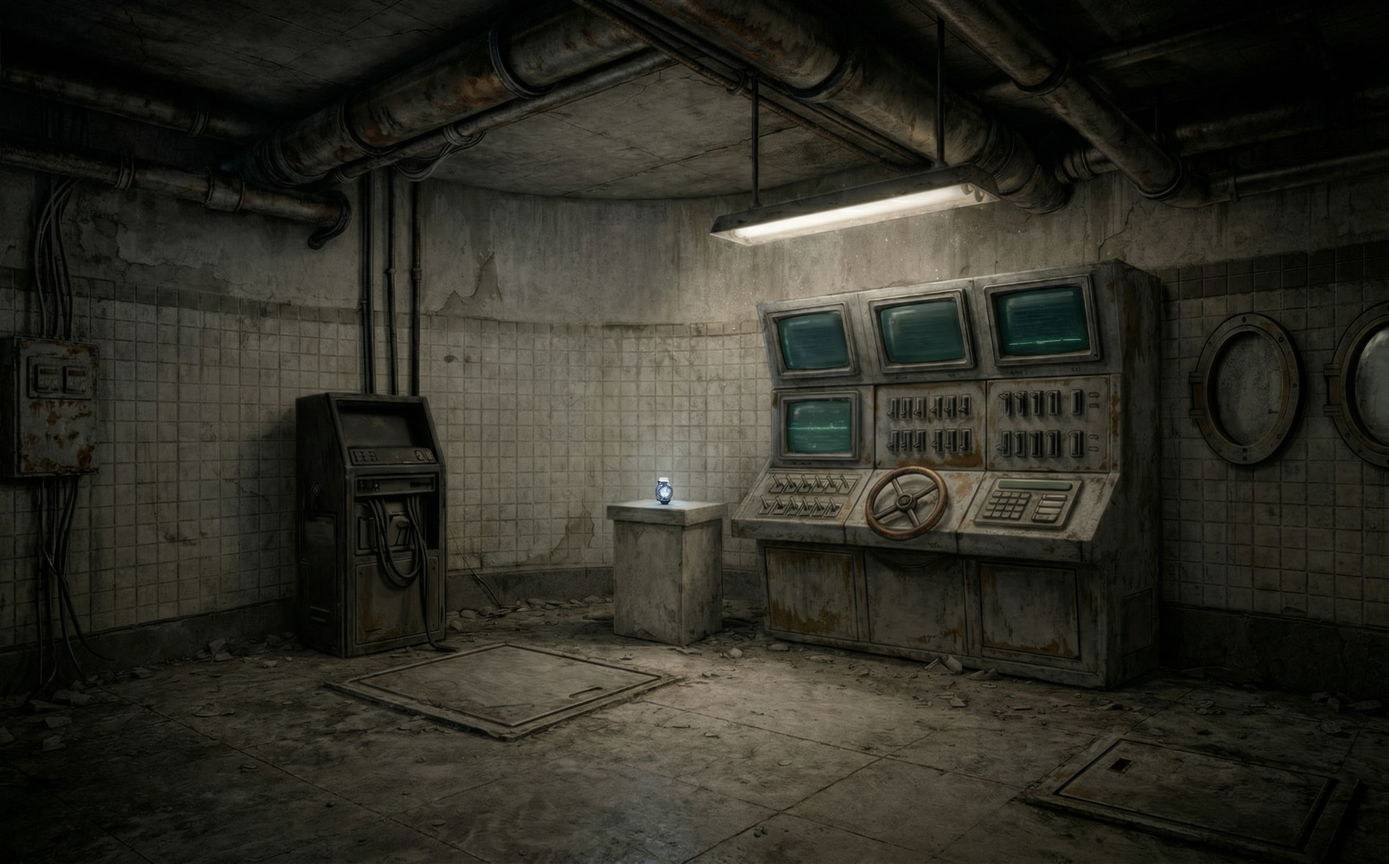
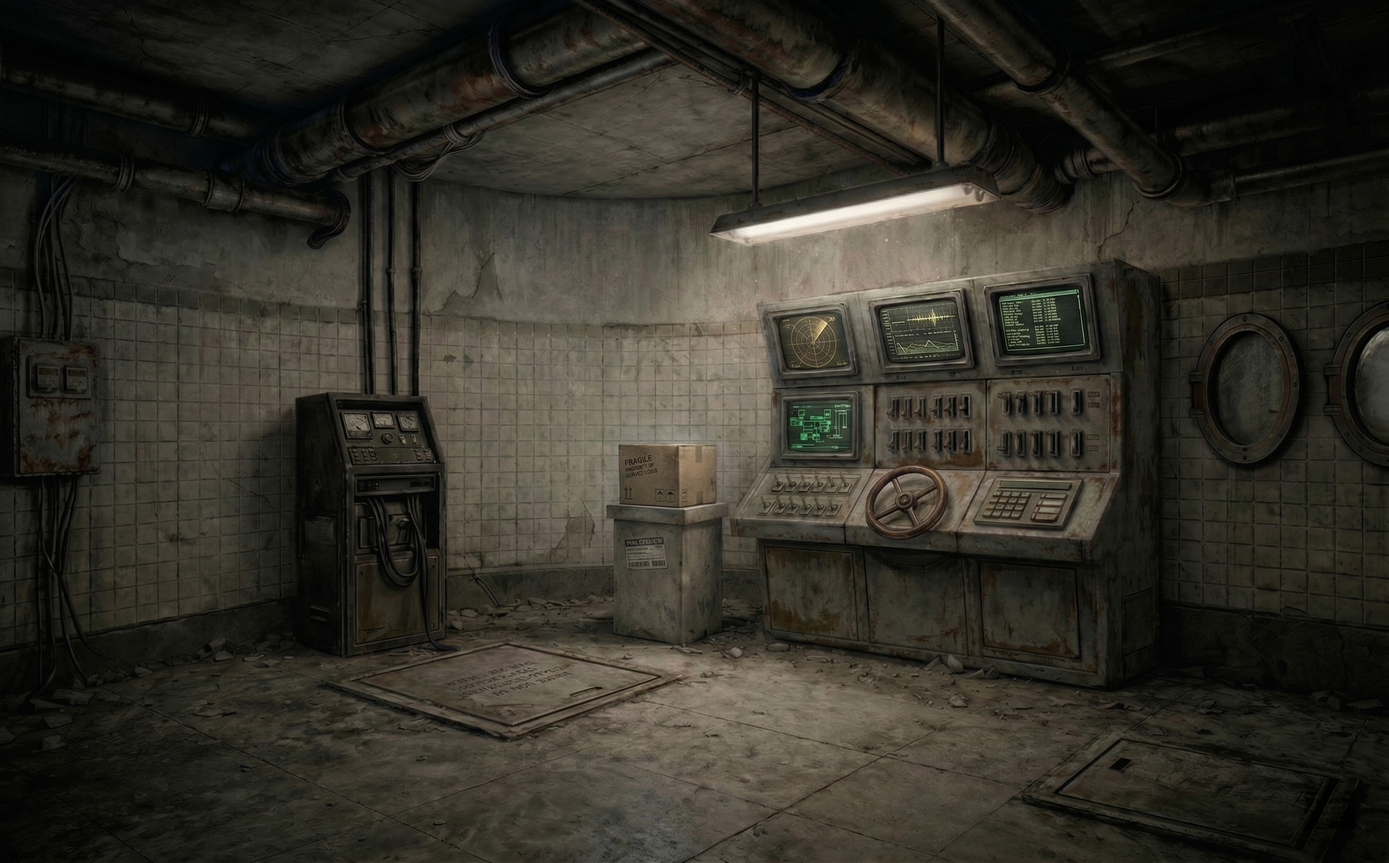
feat: add metro vending puzzle

diff --git a/src/pages/Metro.tsx b/src/pages/Metro.tsx
@@ -15,6 +15,7 @@ import { useInventoryStore } from '../store/useInventoryStore'
 import { ITEMS } from '../config/items'
 import { ItemObtainedOverlay } from '../components/ItemObtainedOverlay'
 import { InventoryOverlay } from '../components/InventoryOverlay'
+import { PuzzleOverlay } from '../components/PuzzleOverlay'
 
 type LevelConfig = {
   background: string
@@ -117,6 +118,8 @@ export default function Metro() {
   const [inventoryVisible, setInventoryVisible] = useState(false)
 
   const [activeDialog, setActiveDialog] = useState<InteractiveZone | null>(null)
+  const [activePuzzleZone, setActivePuzzleZone] = useState<InteractiveZone | null>(null)
+  const [pendingPuzzleZone, setPendingPuzzleZone] = useState<InteractiveZone | null>(null)
 
   const [currentAnim, setCurrentAnim] = useState('idle')
   const [charPos, setCharPos] = useState<[number, number, number]>(spawnPos)
@@ -142,11 +145,19 @@ export default function Metro() {
 
   // Sequence effect: trigger transition only after dialog and items are cleared
   useEffect(() => {
-    if (!activeDialog && pendingItemsToGive.length === 0 && pendingTransition) {
+    if (!activeDialog && !activePuzzleZone && pendingItemsToGive.length === 0 && pendingTransition) {
       setLevelState({ id: pendingTransition, from: currentLevelId })
       setPendingTransition(null)
     }
-  }, [activeDialog, pendingItemsToGive.length, pendingTransition, currentLevelId])
+  }, [activeDialog, activePuzzleZone, pendingItemsToGive.length, pendingTransition, currentLevelId])
+
+  // Post-dialog puzzle trigger
+  useEffect(() => {
+    if (!activeDialog && pendingPuzzleZone) {
+      setActivePuzzleZone(pendingPuzzleZone)
+      setPendingPuzzleZone(null)
+    }
+  }, [activeDialog, pendingPuzzleZone])
 
   // Trigger interaction sequence
   const processZoneInteraction = useCallback((zone: InteractiveZone) => {
@@ -171,14 +182,26 @@ export default function Metro() {
       finalDialog = zone.dialogAfterRequiredItems.trim()
     }
 
+    const canSucceed = !hasRequirements || requirementsMet
+
+    if (canSucceed && zone.puzzleId?.trim() && unobtainedItems.length > 0) {
+      // It's a puzzle and we haven't obtained the items yet.
+      // If there's a dialog to show first (e.g. requirements met), queue the puzzle.
+      if (finalDialog) {
+        setActiveDialog({ ...zone, dialog: finalDialog })
+        setPendingPuzzleZone(zone)
+      } else {
+        setActivePuzzleZone(zone)
+      }
+      return
+    }
+
     if (finalDialog) {
       // Clone zone with resolved dialog text to pass to DialogBox
       setActiveDialog({ ...zone, dialog: finalDialog })
     }
 
     // Process success state (giving items, transitioning)
-    const canSucceed = !hasRequirements || requirementsMet
-
     if (canSucceed) {
       if (unobtainedItems.length > 0) setPendingItemsToGive(unobtainedItems)
       if (zone.transitionTo?.trim()) setPendingTransition(zone.transitionTo.trim())
@@ -234,7 +257,7 @@ export default function Metro() {
     }
 
     // Update cursor icon appropriately
-    if (activeDialog) {
+    if (activeDialog || activePuzzleZone) {
       gameRootRef.current.style.cursor = 'default'
       return
     }
@@ -242,7 +265,7 @@ export default function Metro() {
     gameRootRef.current.style.cursor = zoneId
       ? `url('${cursorUrl}') 16 16, crosshair`
       : 'default'
-  }, [zones, activeDialog])
+  }, [zones, activeDialog, activePuzzleZone])
 
   const handleZoneClick = useCallback((zone: InteractiveZone) => {
     const hasItems = zone.items && zone.items.length > 0
@@ -359,6 +382,23 @@ export default function Metro() {
             obtainItem(pendingItemsToGive[0])
             setPendingItemsToGive(prev => prev.slice(1))
           }}
+        />
+      )}
+      
+      {/* Puzzle Overlay */}
+      {activePuzzleZone && activePuzzleZone.puzzleId && (
+        <PuzzleOverlay 
+          puzzleId={activePuzzleZone.puzzleId} 
+          onComplete={() => {
+            const state = useInventoryStore.getState()
+            const unobtainedItems = (activePuzzleZone.items || []).filter(id => ITEMS[id] && !state.hasItem(id))
+            
+            setActivePuzzleZone(null)
+            
+            // Give items
+            if (unobtainedItems.length > 0) setPendingItemsToGive(unobtainedItems)
+            if (activePuzzleZone.transitionTo?.trim()) setPendingTransition(activePuzzleZone.transitionTo.trim())
+          }} 
         />
       )}
 

diff --git a/src/components/PuzzleOverlay.tsx b/src/components/PuzzleOverlay.tsx
@@ -1,0 +1,84 @@
+import { useState, useEffect, useRef } from 'react'
+
+interface PuzzleOverlayProps {
+  puzzleId: string
+  onComplete: () => void
+}
+
+export function PuzzleOverlay({ puzzleId, onComplete }: PuzzleOverlayProps) {
+  // Only handle 'metro-vending' for now
+  if (puzzleId !== 'metro-vending') {
+    return (
+      <div className="puzzle-overlay-container">
+        <div className="puzzle-overlay-backdrop" onClick={(e) => { e.stopPropagation(); onComplete(); }} />
+        <div className="puzzle-overlay">
+          Unknown puzzle: {puzzleId}
+        </div>
+      </div>
+    )
+  }
+
+  const [isOpen, setIsOpen] = useState(false)
+  const [clickedCircles, setClickedCircles] = useState<Set<number>>(new Set())
+  const circlesRef = useRef(new Set<number>())
+
+  // Toggle open/closed state
+  useEffect(() => {
+    const duration = isOpen ? 1000 : 3000
+    const timeoutId = window.setTimeout(() => {
+      setIsOpen(!isOpen)
+    }, duration)
+
+    return () => window.clearTimeout(timeoutId)
+  }, [isOpen])
+
+  const handleCircleClick = (e: React.MouseEvent, index: number) => {
+    e.stopPropagation()
+    if (!isOpen) return // Only clickable when opened
+
+    const newSet = new Set(circlesRef.current)
+    newSet.add(index)
+    circlesRef.current = newSet
+    setClickedCircles(newSet)
+
+    if (newSet.size === 4) {
+      setTimeout(() => {
+        onComplete()
+      }, 500)
+    }
+  }
+
+  // The four click zones over the battery pins. Absolute positions relative to the image center.
+  // We'll use percentage positioning over a relative container matching the image aspect ratio.
+  const circles = [
+    { id: 0, top: '48%', left: '30%' },
+    { id: 1, top: '48%', left: '70%' },
+    { id: 2, top: '65%', left: '30%' },
+    { id: 3, top: '65%', left: '70%' },
+  ]
+
+  return (
+    <div className="puzzle-overlay-container">
+      <div className="puzzle-overlay-backdrop" onClick={(e) => { e.stopPropagation(); onComplete(); }} />
+
+      <div className="puzzle-content-wrapper">
+        <img
+          src={isOpen ? "/assets/images/puzzle/metro/panel-opened.png" : "/assets/images/puzzle/metro/panel-closed.png"}
+          alt="Electrical Panel"
+          className="puzzle-panel-image"
+        />
+
+        {isOpen && circles.map(circle => (
+          !clickedCircles.has(circle.id) && (
+            <div
+              key={circle.id}
+              className="puzzle-click-circle"
+              style={{ top: circle.top, left: circle.left }}
+              onClick={(e) => handleCircleClick(e, circle.id)}
+            ></div>
+          )
+        ))}
+      </div>
+    </div>
+  )
+}

diff --git a/src/index.css b/src/index.css
@@ -317,3 +317,73 @@ html, body, #root {
 .bag-button:hover img {
   opacity: 1;
 }
+
+/* ─── Puzzle Overlay ─────────────────────────────────────────────── */
+.puzzle-overlay-container {
+  position: absolute;
+  inset: 0;
+  z-index: 100;
+  display: flex;
+  align-items: center;
+  justify-content: center;
+  pointer-events: none;
+}
+
+.puzzle-overlay-backdrop {
+  position: absolute;
+  inset: 0;
+  background: rgba(0, 0, 0, 0.9);
+  pointer-events: all;
+}
+
+.puzzle-overlay {
+  position: relative;
+  background: #222;
+  color: white;
+  padding: 24px;
+  border-radius: 8px;
+  pointer-events: all;
+  font-family: 'Inter', sans-serif;
+}
+
+.puzzle-content-wrapper {
+  position: relative;
+  max-width: 80%;
+  max-height: 80%;
+  pointer-events: all;
+  display: flex;
+  justify-content: center;
+  align-items: center;
+}
+
+.puzzle-panel-image {
+  max-width: 100%;
+  max-height: 80vh;
+  object-fit: contain;
+  pointer-events: none;
+  user-select: none;
+}
+
+.puzzle-click-circle {
+  position: absolute;
+  width: 40px;
+  height: 40px;
+  background: rgba(0, 255, 255, 0.2);
+  border: 2px solid rgba(0, 255, 255, 0.8);
+  border-radius: 50%;
+  transform: translate(-50%, -50%);
+  cursor: pointer;
+  box-shadow: 0 0 10px rgba(0, 255, 255, 0.5), inset 0 0 10px rgba(0, 255, 255, 0.5);
+  animation: pulse-circle 1.5s infinite;
+  transition: background 0.2s;
+}
+
+.puzzle-click-circle:hover {
+  background: rgba(0, 255, 255, 0.5);
+}
+
+@keyframes pulse-circle {
+  0% { transform: translate(-50%, -50%) scale(0.95); opacity: 0.8; }
+  50% { transform: translate(-50%, -50%) scale(1.05); opacity: 1; }
+  100% { transform: translate(-50%, -50%) scale(0.95); opacity: 0.8; }
+}

diff --git a/src/components/InteractiveZoneEditor.tsx b/src/components/InteractiveZoneEditor.tsx
@@ -628,6 +628,34 @@ export function InteractiveZoneEditor({
               </div>
 
               <div style={{
+                marginTop: '16px', fontSize: '11px', fontWeight: 600, color: 'rgba(255,255,255,0.6)',
+                marginBottom: '5px', textTransform: 'uppercase', letterSpacing: '0.06em',
+              }}>
+                🧩 Puzzle ID
+              </div>
+              <input
+                type="text"
+                value={sel.puzzleId ?? ''}
+                onChange={e => onUpdateZone(sel.id, { puzzleId: e.target.value })}
+                placeholder="Puzzle ID (e.g. metro-vending)"
+                style={{
+                  width: '100%',
+                  background: 'rgba(255,255,255,0.06)',
+                  border: '1px solid rgba(255,255,255,0.15)',
+                  borderRadius: '6px',
+                  color: '#fff',
+                  fontSize: '11px',
+                  padding: '5px 9px',
+                  outline: 'none',
+                  boxSizing: 'border-box'
+                }}
+                onClick={e => e.stopPropagation()}
+              />
+              <div style={{ fontSize: '10px', color: 'rgba(255,255,255,0.3)', marginTop: '3px' }}>
+                If set, triggers a puzzle modal before giving items.
+              </div>
+
+              <div style={{
                 marginTop: '16px', fontSize: '11px', fontWeight: 600,
                 color: 'rgba(255,255,255,0.6)', marginBottom: '8px',
                 textTransform: 'uppercase', letterSpacing: '0.06em',

diff --git a/src/config/items.ts b/src/config/items.ts
@@ -29,5 +29,11 @@ export const ITEMS: Record<string, ItemData> = {
     name: 'CHRONOS WATCH',
     description: "A rugged timepiece with a worn leather strap, remarkably still ticking. The back is engraved with the initials '彡M'.",
     image: '/assets/images/item/watch.png',
+  },
+  battery: {
+    id: 'battery',
+    name: 'H-C BATTERY',
+    description: 'A high-capacity cell with a localized time-static flicker. Needs to be stabilized before use.',
+    image: '/assets/images/item/battery.png',
   }
 }

diff --git a/src/hooks/useInteractiveZones.ts b/src/hooks/useInteractiveZones.ts
@@ -17,6 +17,7 @@ export type InteractiveZone = {
   requiredItems?: string[]
   dialogAfterRequiredItems?: string
   transitionTo?: string
+  puzzleId?: string
   targetPos?: [number, number, number]
   polygon: ZonePolygon
 }
